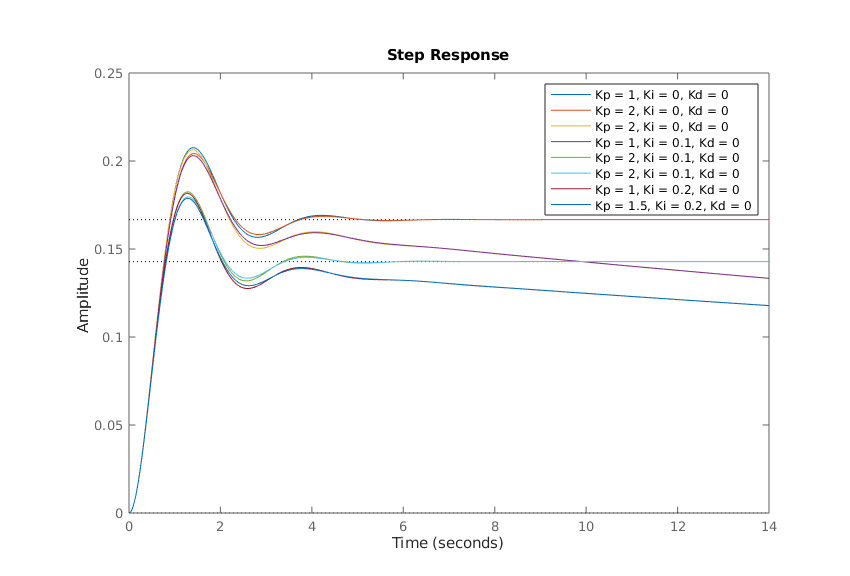
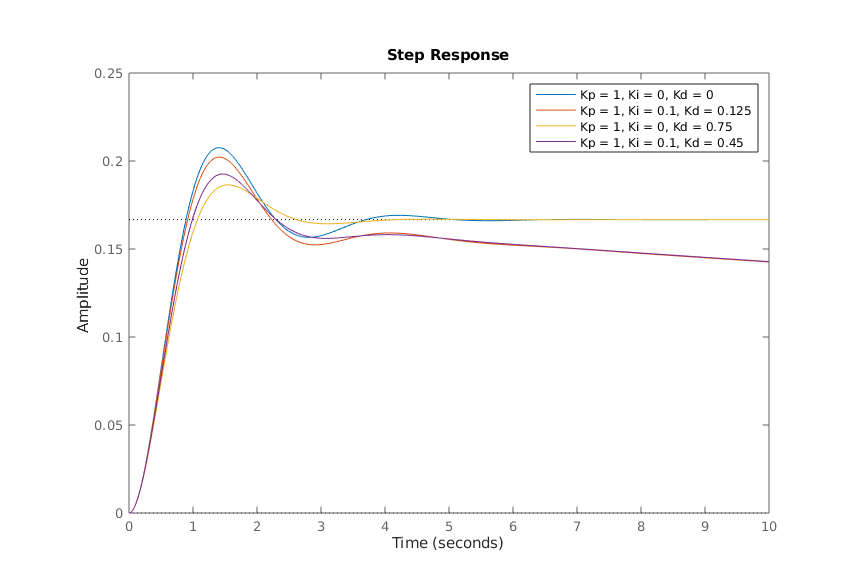
Added completed lab4 doc

diff --git a/lab4/lab4.m b/lab4/lab4.m
@@ -1,45 +1,52 @@
 % Define the system transfer function G(s) = 1/(s^2 + 2s + 5)
 num = 1;
 den = [1 2 5];
+G = tf(num, den);
 
 % Define unit step input s
-s = 0:0.01:14;
+s = 0:0.01:10;
 
 % Create the open-loop transfer function
 G = tf(num, den);
-
-% Define the PID controller gains
-Kp_values = [1, 2];
-Ki_values = [0, 0.1];
-Kd_values = [0, 0.1];
 
 % Create a figure for the plots
 figure;
 hold on;
 
-% Loop over different PID parameters
-for i = 1:length(Kp_values)
-    for j = 1:length(Ki_values)
-        for k = 1:length(Kd_values)
-            Kp = Kp_values(i);
-            Ki = Ki_values(j);
-            Kd = Kd_values(k);
+% Create a legend for the plots
+legendEntries = {};
+% Create a list to store the PID systems
+sys = [];
 
-            % Create the PID controller transfer function C(s) = Kp + Ki/s + Kd*s
-            C = pid(Kp, Ki, Kd);
+% Plot the step response of the system with different PID parameters
+[sys, legendEntries] = plotPidSystem(1, 0, 0, G, s, legendEntries);
+[sys, legendEntries] = plotPidSystem(1, 0.1, 0.125, G, s, legendEntries);
+[sys, legendEntries] = plotPidSystem(1, 0, 0.75, G, s, legendEntries);
+[sys, legendEntries] = plotPidSystem(1, 0.1, 0.45, G, s, legendEntries);
 
-            % Create Closed-loop system with the PID controller
-            sys = feedback(G, C);
 
-            % Simulate Step response of the closed-loop system
-            step(sys, s);
+% Function to plot the step response of the system with a PID controller
+function [sys, legendEntries] = plotPidSystem(Kp, Ki, Kd, G, s, legendEntries)
+    % Create the PID controller transfer function C(s) = Kp + Ki/s + Kd*s
+    C = pid(Kp, Ki, Kd);
 
-            % Add a legend entry for the current PID parameters
-            legendEntries{i, j, k} = ['Kp = ' num2str(Kp) ', Ki = ' num2str(Ki) ', Kd = ' num2str(Kd)];
-        end
-    end
+    % Create Closed-loop system with the PID controller
+    sys = feedback(G, C);
+
+    % Simulate Step response of the closed-loop system
+    step(sys, s);
+
+
+    disp("Kp = " + Kp + ", Ki = " + Ki + ", Kd = " + Kd);
+
+    disp(stepinfo(sys));
+
+    legendEntries{end+1} = ['Kp = ' num2str(Kp) ', Ki = ' num2str(Ki) ', Kd = ' num2str(Kd)];
+
+    % Add a legend entry for the current PID parameters
+    legend(legendEntries);
 end
 
-% Add the legend to the plot
-legend(legendEntries(:));
+% Add a legend to the plot
+legend(legendEntries);
 hold off;
